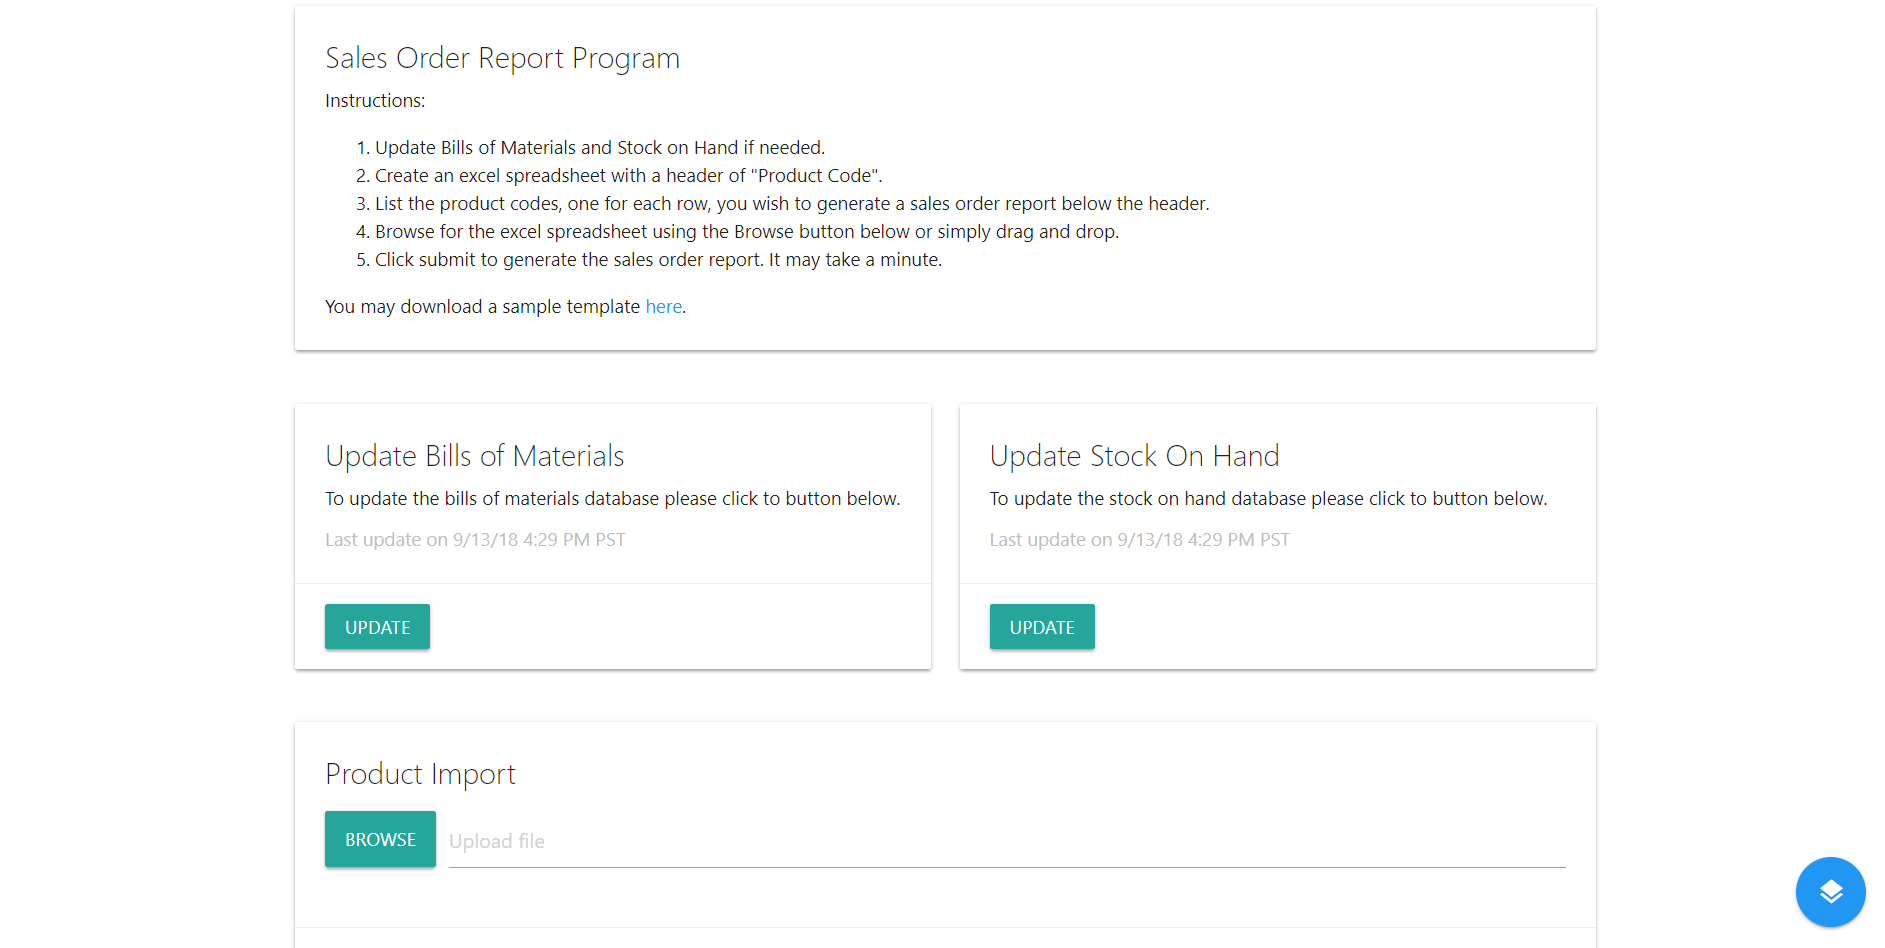
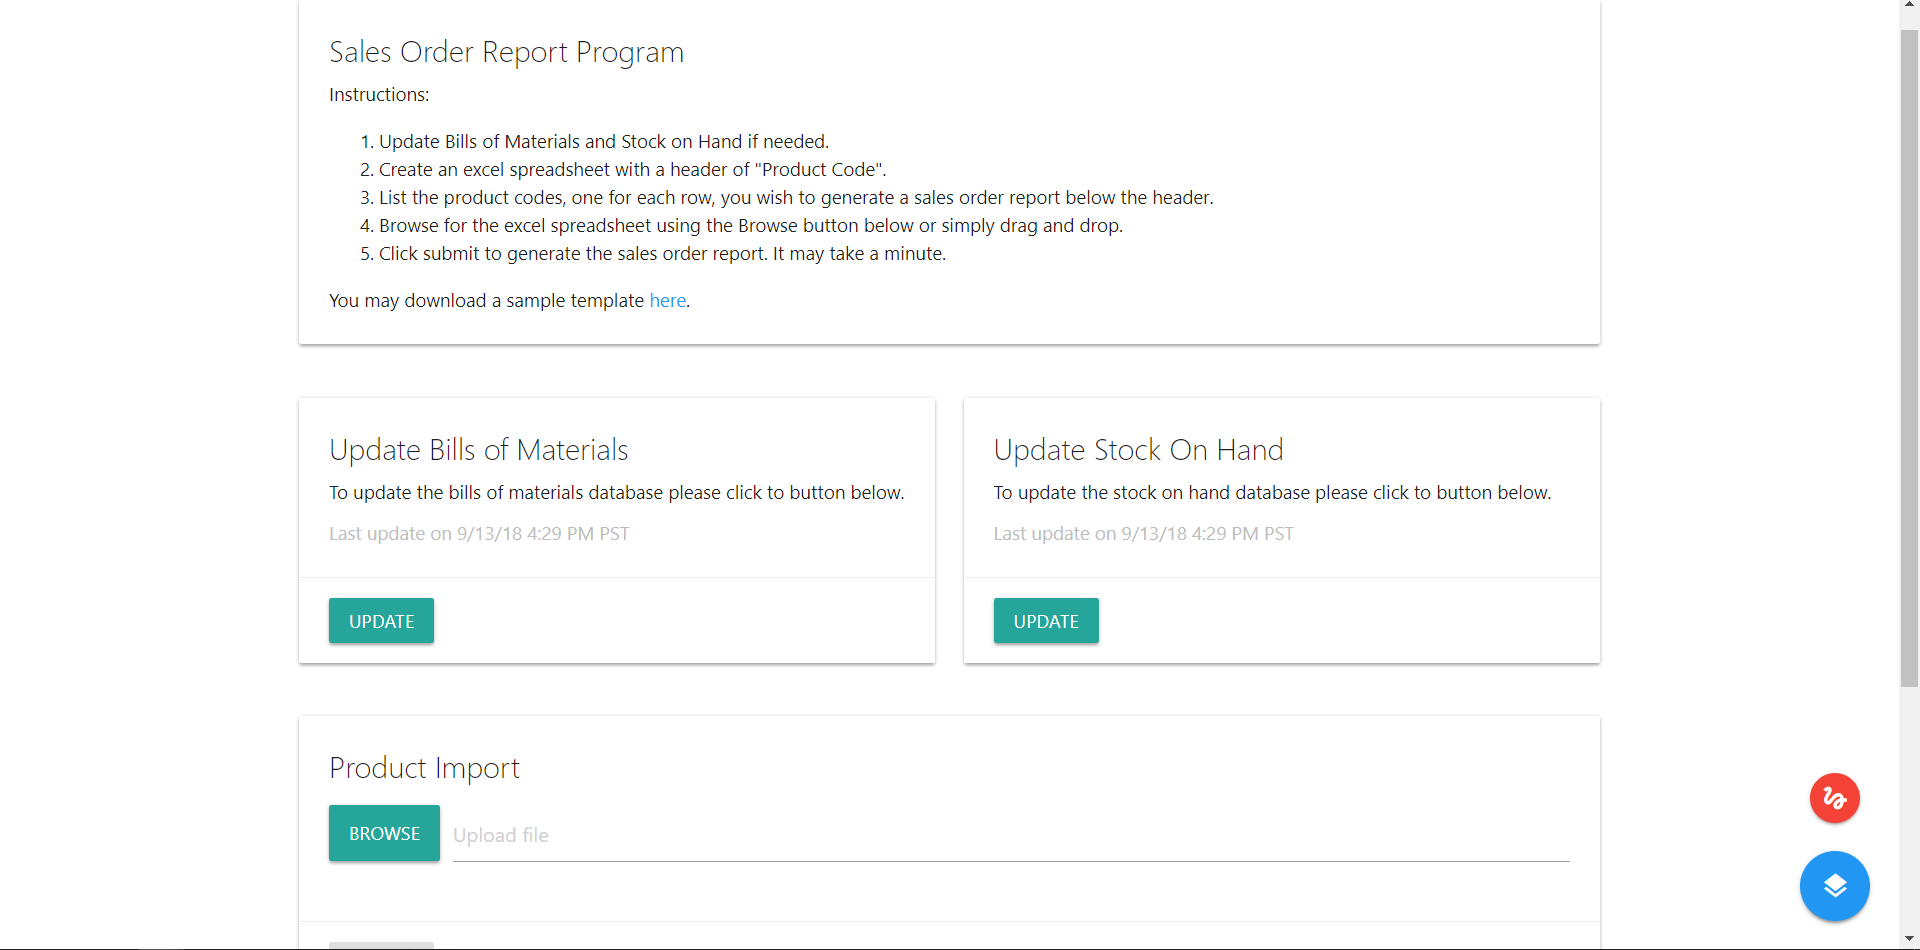
update readme and doc image

diff --git a/README.md b/README.md
@@ -1,7 +1,7 @@
 # Sales Order Report
 This application "unzips" Unleashed Inventory Management System bills of materials from finished products down to their components. The user uses the GUI to update Bills of Materials and Stock on Hand databases, and run the sales report through an excel spreadsheet that includes the products to be queried. Stock on hand, allocated quantitites, and quantities from sales orders and purchase orders are listed for each component for the product.
 
-![PNG](documentation/images/index.PNG)
+![PNG](documentation/images/index.png)
 
 ## Technology Stack:
 Python<br>
